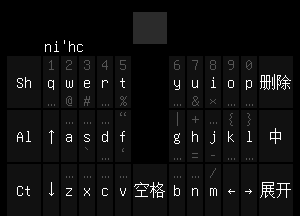
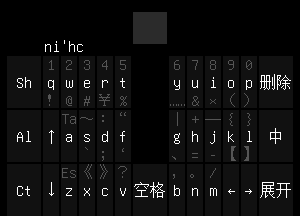
fix: 极小尺寸下 Tab/Esc 短标签被截断
副标签改为占满整个键宽，与主标签一致；紧凑后 Ta/Es 宽 S，K≥S 恒成立，
最小 160×256 与极端横屏不再折成省略号。webdemo 移除按键副标签的 preeditPad，
紧凑判断统一由 layout 计算，避免与 Android 脱轨。

diff --git a/webdemo/js/view.js b/webdemo/js/view.js
@@ -296,36 +296,9 @@
 
   var MOD_SHORT = { ctrl: 'Ct', alt: 'Al', shift: 'Sh' };
 
-  // Unifont 确定性宽度：全角 S，半角 S/2。
-  function labelWidth(text, s) {
-    var w = 0;
-    for (var i = 0; i < text.length; i++) {
-      var c = text.charCodeAt(i);
-      var full = c >= 0x1100 && (c <= 0x115F || c === 0x2329 || c === 0x232A
-        || (c >= 0x2E80 && c <= 0xA4CF && c !== 0x303F)
-        || (c >= 0xAC00 && c <= 0xD7A3)
-        || (c >= 0xF900 && c <= 0xFAFF)
-        || (c >= 0xFE30 && c <= 0xFE6F)
-        || (c >= 0xFF00 && c <= 0xFF60)
-        || (c >= 0xFFE0 && c <= 0xFFE6));
-      w += full ? s : s / 2;
-    }
-    return w;
-  }
-
-  // 修饰键或 Tab/Esc 任一放不下，就一起进入紧凑标签模式。
+  // 修饰键或 Tab/Esc 任一放不下，就一起进入紧凑标签模式（由 layout 统一计算）。
   function compactLabels() {
-    if (!metrics) return false;
-    var keyW = metrics.orientation === 'landscape' ? metrics.outerW : metrics.K;
-    var widest = Math.max(
-      labelWidth('Ctrl', metrics.S),
-      labelWidth('Alt', metrics.S),
-      labelWidth('Shft', metrics.S)
-    );
-    var modShort = widest >= keyW - 2;
-    var subShort = labelWidth('Tab', metrics.S) > metrics.K - metrics.g
-      || labelWidth('Esc', metrics.S) > metrics.K - metrics.g;
-    return modShort || subShort;
+    return !!(metrics && metrics.compactLabels);
   }
 
   function modifierLabel(def, model) {

diff --git a/webdemo/js/layout.js b/webdemo/js/layout.js
@@ -290,8 +290,8 @@
     var widest = Math.max(textWidth('Ctrl', m.S),
       Math.max(textWidth('Alt', m.S), textWidth('Shft', m.S)));
     var modShort = widest >= modKeyW - 2;
-    var subShort = textWidth('Tab', m.S) > m.K - m.g
-      || textWidth('Esc', m.S) > m.K - m.g;
+    var subShort = textWidth('Tab', m.S) > m.K
+      || textWidth('Esc', m.S) > m.K;
     return modShort || subShort;
   }
 

diff --git a/webdemo/css/styles.css b/webdemo/css/styles.css
@@ -378,7 +378,7 @@ body {
 .key .up,
 .key .down {
   width: 100%;
-  padding: 0 var(--pad);
+  padding: 0;
   text-align: center;
   color: var(--sub-text);
   font-size: var(--s);

diff --git a/android/app/src/main/java/com/kbd/ime/KbdRenderer.java b/android/app/src/main/java/com/kbd/ime/KbdRenderer.java
@@ -278,17 +278,19 @@ final class KbdRenderer {
         float size = L.S;
         float w = rect[2] - rect[0];
 
+        boolean compact = L.compactLabels();
+
         if (sliding) {
             String label = pressed.mode == MODE_SLIDE_UP
                     ? keyUpText(app, key) : keyDownText(app, key);
             if (!label.isEmpty()) {
-                sink.text(label, (rect[0] + rect[2]) / 2, (rect[1] + rect[3]) / 2,
-                        size, mainColor, true, w - L.g);
+                sink.text(fitSubLabel(label, compact),
+                        (rect[0] + rect[2]) / 2, (rect[1] + rect[3]) / 2,
+                        size, mainColor, true, w);
             }
             return;
         }
 
-        boolean compact = L.compactLabels();
         String main = key.kind == KbdData.Kind.MODIFIER
                 ? modifierLabel(app, key, compact)
                 : keyMainText(app, key);
@@ -305,12 +307,12 @@ final class KbdRenderer {
             if (!pressingNow) {
                 if (!up.isEmpty()) {
                     sink.text(up, (rect[0] + rect[2]) / 2, rect[1] + L.S / 2f,
-                            size, dimColor, true, w - L.g);
+                            size, dimColor, true, w);
                 }
                 if (!down.isEmpty()) {
                     sink.text(down, (rect[0] + rect[2]) / 2,
                             rect[1] + L.keyH - L.S / 2f,
-                            size, dimColor, true, w - L.g);
+                            size, dimColor, true, w);
                 }
             }
             sink.text(main, (rect[0] + rect[2]) / 2, rect[1] + L.keyH / 2f,

diff --git a/scripts/preview/LayoutPreview.java b/scripts/preview/LayoutPreview.java
@@ -309,8 +309,8 @@ public final class LayoutPreview {
                 "32px=" + KbdLayout.textWidth("Ctrl", 32)
                         + " 48px=" + KbdLayout.textWidth("Ctrl", 48));
         ok &= check("Tab/Esc 短标签阈值",
-                KbdLayout.textWidth("Tab", 48) > 70 - 6
-                        && KbdLayout.textWidth("Tab", 32) <= 68 - 4,
+                KbdLayout.textWidth("Tab", 48) > 70
+                        && KbdLayout.textWidth("Tab", 32) <= 68,
                 "48px=" + KbdLayout.textWidth("Tab", 48)
                         + " 32px=" + KbdLayout.textWidth("Tab", 32));
         ok &= check("短标签统一：720 全称 / 768 全短 / 800 横屏全短 / 1024 横屏全称",
@@ -322,6 +322,12 @@ public final class LayoutPreview {
                         + " 768=" + threeFour.compactLabels()
                         + " 800=" + square.compactLabels()
                         + " 1024=" + new KbdLayout(1024, 768, 32).compactLabels());
+        KbdLayout minPortrait = new KbdLayout(160, 256, 32);
+        KbdLayout minLandscape = new KbdLayout(300, 260, 32);
+        ok &= check("最小尺寸下 Ta/Es 不超过键宽",
+                minPortrait.compactLabels() && minPortrait.k >= KbdLayout.textWidth("Ta", minPortrait.S)
+                        && minLandscape.compactLabels() && minLandscape.k >= KbdLayout.textWidth("Ta", minLandscape.S),
+                "160×256 k=" + minPortrait.k + " 300×260 k=" + minLandscape.k);
 
         // 横屏（webdemo landscape）
         KbdLayout LL = new KbdLayout(1604, 720, 32);

diff --git a/android/app/src/main/java/com/kbd/ime/KbdLayout.java b/android/app/src/main/java/com/kbd/ime/KbdLayout.java
@@ -452,8 +452,8 @@ final class KbdLayout {
         int widest = Math.max(textWidth("Ctrl", S),
                 Math.max(textWidth("Alt", S), textWidth("Shft", S)));
         boolean modShort = widest >= modKeyW - 2;
-        boolean subShort = textWidth("Tab", S) > k - g
-                || textWidth("Esc", S) > k - g;
+        boolean subShort = textWidth("Tab", S) > k
+                || textWidth("Esc", S) > k;
         return modShort || subShort;
     }
 

diff --git a/docs/geometry.md b/docs/geometry.md
@@ -115,12 +115,12 @@ H ≥ 208n + 12·g_start(n) + b
 
 ## 6. 短标签
 
-统一紧凑开关：修饰键或 Tab/Esc 任一放不下，就同时使用 `Ct/Al/Sh` 与 `Ta/Es`。
+统一紧凑开关：修饰键或 Tab/Esc 任一放不下，就同时使用 `Ct/Al/Sh` 与 `Ta/Es`。主标签与副标签都占满整个键宽 `K`，紧凑后 `Ta/Es` 宽 `S`，而 `K ≥ S` 恒成立，因此不会在最小尺寸下被截断。
 
 ```text
 modKeyW = landscape ? outerW : K
 modShort = max(textWidth("Ctrl"), textWidth("Alt"), textWidth("Shft")) ≥ modKeyW − 2
-subShort = textWidth("Tab") > K − g 或 textWidth("Esc") > K − g
+subShort = textWidth("Tab") > K 或 textWidth("Esc") > K
 compact = modShort || subShort
 ```
 
